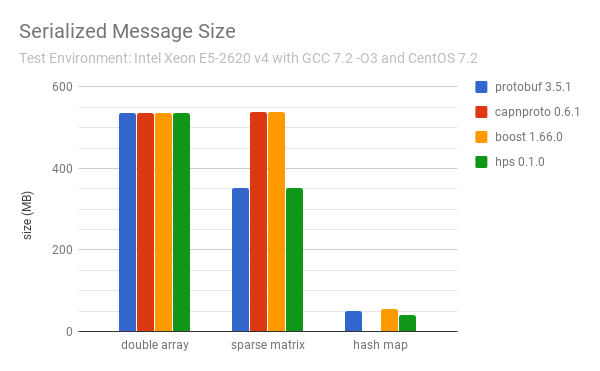
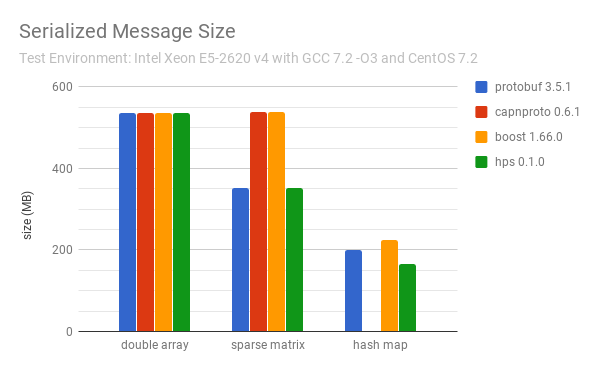
optimize map (#33)

diff --git a/src/container/unordered_map_serializer_test.cc b/src/container/unordered_map_serializer_test.cc
@@ -9,7 +9,8 @@ TEST(UnorderedMapSerializerTest, NoElements) {
   std::unordered_map<std::string, int> input;
   std::stringstream ss;
   hps::StreamOutputBuffer ob(ss);
-  hps::Serializer<std::unordered_map<std::string, int>, hps::StreamOutputBuffer>::serialize(input, ob);
+  hps::Serializer<std::unordered_map<std::string, int>, hps::StreamOutputBuffer>::serialize(
+      input, ob);
   ob.flush();
 
   hps::StreamInputBuffer ib(ss);
@@ -25,7 +26,8 @@ TEST(UnorderedMapSerializerTest, FewElements) {
   input["cc"] = -333;
   std::stringstream ss;
   hps::StreamOutputBuffer ob(ss);
-  hps::Serializer<std::unordered_map<std::string, int>, hps::StreamOutputBuffer>::serialize(input, ob);
+  hps::Serializer<std::unordered_map<std::string, int>, hps::StreamOutputBuffer>::serialize(
+      input, ob);
   ob.flush();
 
   hps::StreamInputBuffer ib(ss);

diff --git a/src/container/map_serializer.h b/src/container/map_serializer.h
@@ -24,11 +24,9 @@ class Serializer<std::map<K, V>, B> {
     Serializer<size_t, B>::parse(n_elems, ib);
     container.clear();
     K key;
-    V value;
     for (size_t i = 0; i < n_elems; i++) {
       Serializer<K, B>::parse(key, ib);
-      Serializer<V, B>::parse(value, ib);
-      container[std::move(key)] = std::move(value);
+      Serializer<V, B>::parse(container[std::move(key)], ib);
     }
   }
 };

diff --git a/src/benchmark/map_test.cc b/src/benchmark/map_test.cc
@@ -11,7 +11,7 @@
 #include "capnproto_benchmark.capnp.h"
 #include "protobuf_benchmark.pb.h"
 
-constexpr static unsigned long long N_ENTRIES = 1 << 21;
+constexpr static unsigned long long N_ENTRIES = 1 << 23;
 
 TEST(MapBenchmarkLargeTest, Warmup) {
   std::unordered_map<std::string, double> origin;
